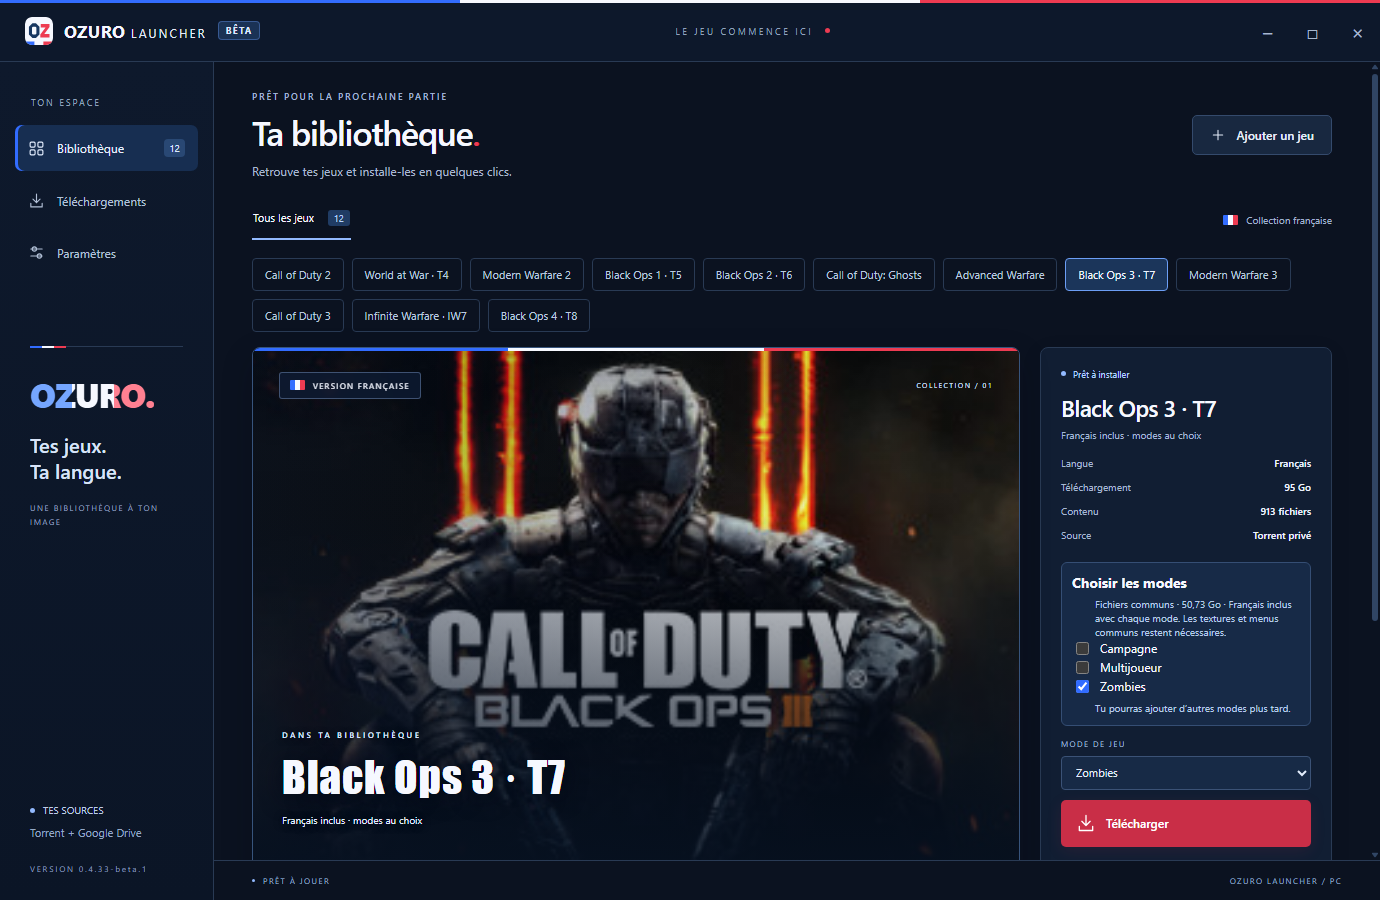
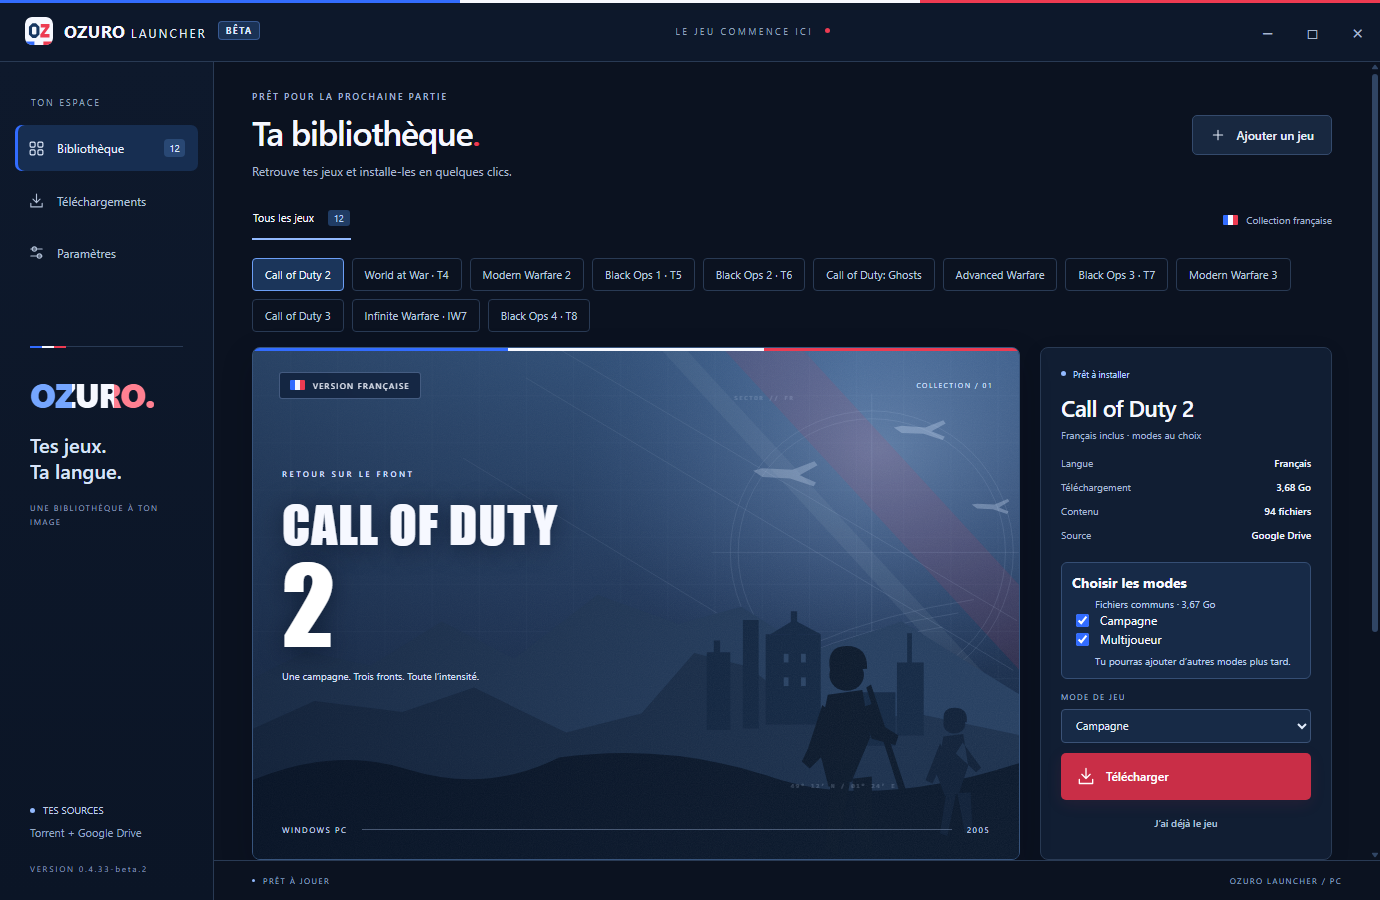
Publish Ozuro Launcher 0.4.33-beta.2 beta download page

diff --git a/README.md b/README.md
@@ -4,9 +4,9 @@ Launcher Windows en français, aux couleurs bleu, blanc, rouge.
 
 ## Télécharger
 
-[Télécharger Ozuro Launcher 0.4.33-beta.1 pour Windows](https://github.com/matthieu545/ozuro-launcher-downloads/releases/download/v0.4.33-beta.1/Ozuro-Launcher-0.4.33-beta.1.exe).
+[Télécharger Ozuro Launcher 0.4.33-beta.2 pour Windows](https://github.com/matthieu545/ozuro-launcher-downloads/releases/download/v0.4.33-beta.2/Ozuro-Launcher-0.4.33-beta.2.exe).
 
-**Version bêta — destinée aux tests.** Le fichier portable suffit ; aucun jeu n’est inclus dans l’EXE. La [page de cette préversion](https://github.com/matthieu545/ozuro-launcher-downloads/releases/tag/v0.4.33-beta.1) contient l’EXE, sa notice et son empreinte SHA-256. Les versions précédentes restent disponibles dans [Releases](https://github.com/matthieu545/ozuro-launcher-downloads/releases).
+**Version bêta — destinée aux tests.** Le fichier portable suffit ; aucun jeu n’est inclus dans l’EXE. La [page de cette préversion](https://github.com/matthieu545/ozuro-launcher-downloads/releases/tag/v0.4.33-beta.2) contient l’EXE, sa notice et son empreinte SHA-256. Les versions précédentes restent disponibles dans [Releases](https://github.com/matthieu545/ozuro-launcher-downloads/releases).
 
 ![Ozuro Launcher Bêta — bibliothèque](docs/images/launcher.png)
 
@@ -19,10 +19,10 @@ Launcher Windows en français, aux couleurs bleu, blanc, rouge.
 
 Les téléchargements dépendent de la disponibilité des sources et des joueurs qui partagent les fichiers. Les prérequis Microsoft manquants sont détectés par le launcher ; Windows peut demander une autorisation pour les installer.
 
-## Version 0.4.33-beta.1
+## Version 0.4.33-beta.2
 
 - Badge **BÊTA** dans Ozuro Launcher.
-- 12 fonds de jeux intégrés, avec changement automatique selon le Call of Duty sélectionné.
+- Retour au fond illustré précédent ; photos des jeux temporairement retirées.
 - Identité bleu, blanc, rouge conservée.
 - Bibliothèque et réglages des versions FR Launcher conservés.
 
